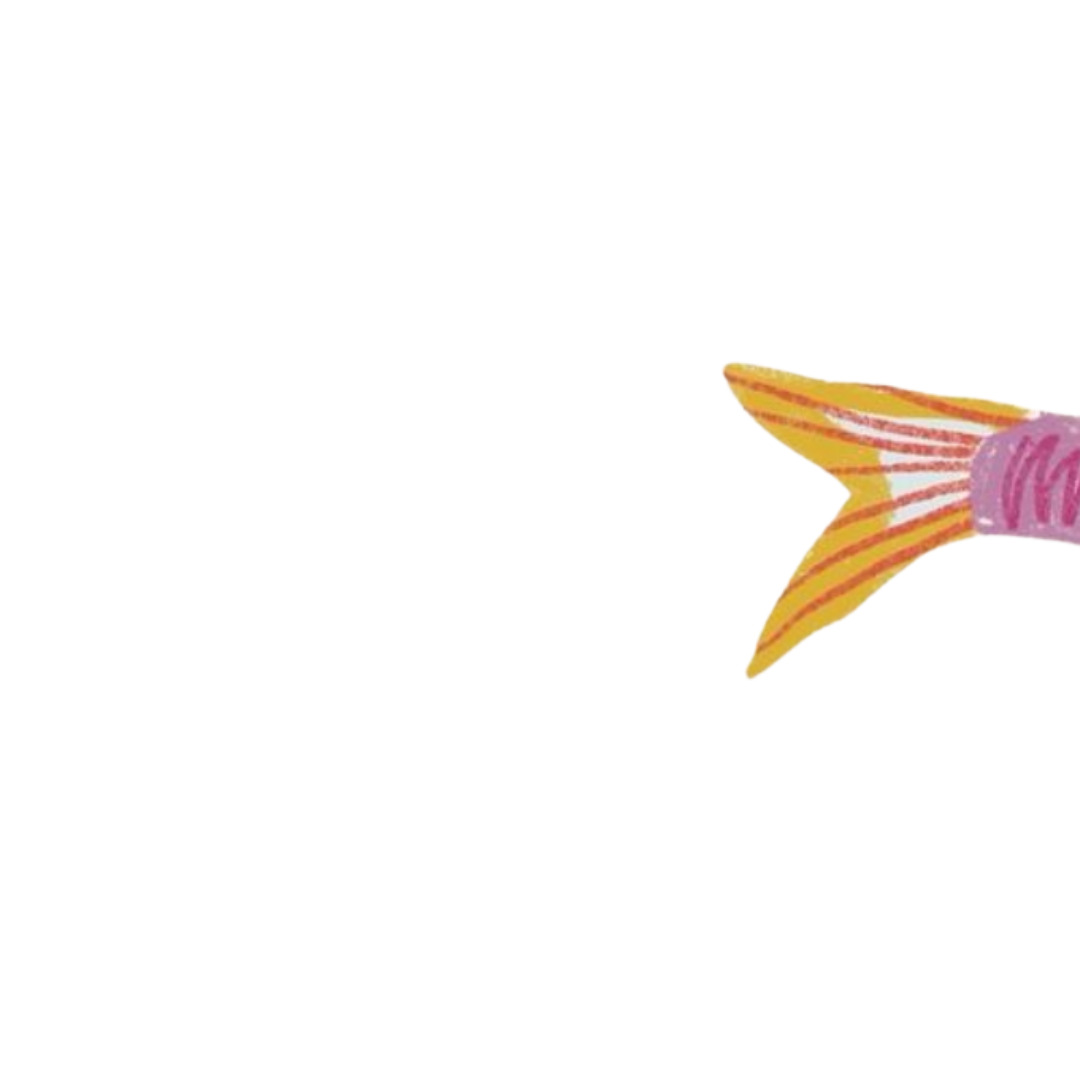
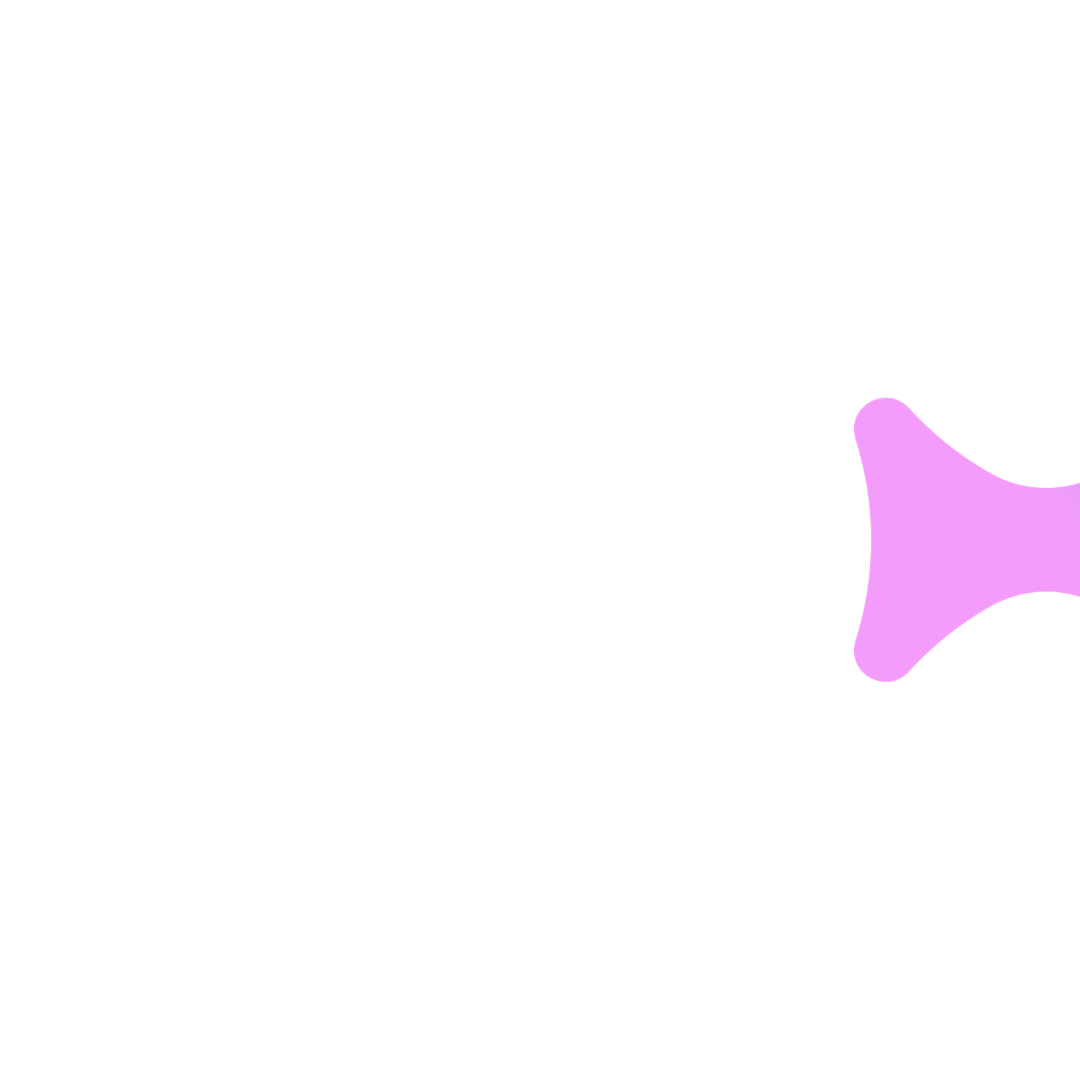
2nd commit

Changed region(s): [[0.6722, 0.3361, 1.0, 0.6417]]

diff --git a/sketch.js b/sketch.js
@@ -21,7 +21,6 @@ const LETTER_SETTINGS = {
 };
 
 const FISH_SETTINGS = {
-  count: 6,
   minSpeed: 0.6,
   maxSpeed: 1.4,
   wanderStrength: 0.02,
@@ -49,7 +48,29 @@ const FISH_RENDER = {
   // Tail animation
   tailAmplitude: 0.35, // radians
   tailSpeedBase: 0.16,
+
+  // Subtle body motion (relative to tail)
+  bodyBobAmount: 1.0, // pixels in local Y
+  bodyRotateAmount: 0.05, // radians
+  bodyScaleAmount: 0, // uniform scale delta
+  bodyMotionSpeed: 0.5, // multiplier on tailSpeed for body
+
+  // Extra tail speed when chasing (very subtle)
+  tailChaseSpeedMultiplier: 1.05,
 };
+
+// Per-variant fish configuration: fixed size (scale) and count.
+// One entry per body/tail pair (indices are 0-based into fishBodyImgs/fishTailImgs).
+// Adjust counts/scales here to control how many of each fish and how big.
+const FISH_VARIANT_PRESETS = [
+  { bodyIndex: 0, tailIndex: 0, count: 3, scale: 1.0 },
+  { bodyIndex: 1, tailIndex: 1, count: 2, scale: 1.0 },
+  { bodyIndex: 2, tailIndex: 2, count: 1, scale: 1.0 },
+  { bodyIndex: 3, tailIndex: 3, count: 1, scale: 1.0 },
+];
+
+// Resolved presets that actually have images loaded.
+let FISH_VARIANTS = [];
 
 // =========================
 // p5 lifecycle
@@ -57,14 +78,22 @@ const FISH_RENDER = {
 
 function preload() {
   // Add more body/tail image paths here to increase variation.
-  const bodyPaths = ["images/1.png", "images/3.png"];
-  const tailPaths = ["images/2.png", "images/4.png"];
+  const bodyPaths = ["images/1.png", "images/3.png", "images/5.png", "images/7.png"];
+  const tailPaths = ["images/2.png", "images/4.png", "images/6.png", "images/8.png"];
 
   const pairCount = Math.min(bodyPaths.length, tailPaths.length);
   for (let i = 0; i < pairCount; i++) {
     fishBodyImgs.push(loadImage(bodyPaths[i]));
     fishTailImgs.push(loadImage(tailPaths[i]));
   }
+
+  // Build actual variants list from presets, clamping to available images.
+  FISH_VARIANTS = FISH_VARIANT_PRESETS.filter((v) => {
+    return (
+      fishBodyImgs[v.bodyIndex] !== undefined &&
+      fishTailImgs[v.tailIndex] !== undefined
+    );
+  });
 }
 
 function setup() {
@@ -75,13 +104,17 @@ function setup() {
   noStroke();
   imageMode(CENTER);
 
-  for (let i = 0; i < FISH_SETTINGS.count; i++) {
-    fish.push(Fish.spawnOffscreen());
+  // Spawn a fixed number of fish per variant, with fixed size.
+  for (let vi = 0; vi < FISH_VARIANTS.length; vi++) {
+    const variant = FISH_VARIANTS[vi];
+    for (let n = 0; n < variant.count; n++) {
+      fish.push(Fish.spawnOffscreen(variant));
+    }
   }
 }
 
 function draw() {
-  background(0);
+  background(2, 0, 0); // soft off-white to match page
 
   // Update ripples
   for (let i = ripples.length - 1; i >= 0; i--) {
@@ -240,27 +273,29 @@ class Ripple {
 // =========================
 
 class Fish {
-  constructor(x, y, dir, speed, color, scale) {
+  constructor(x, y, dir, speed, color, variant) {
     this.x = x;
     this.y = y;
     this.dir = dir;
+    this.baseSpeed = speed;
     this.speed = speed;
     this.color = color;
-    this.scale = scale;
+    this.variant = variant;
+    this.scale = variant ? variant.scale : 1.0;
 
     this.bobPhase = random(TWO_PI);
     this.turnTarget = dir;
     this.timeOffset = random(1000);
+    this.hasTarget = false;
 
-    // Image references: choose a random body/tail pair from the loaded variants.
-    const imgIndex =
-      fishBodyImgs.length > 0
-        ? Math.floor(random(fishBodyImgs.length))
-        : -1;
-    this.bodyImg =
-      imgIndex >= 0 ? fishBodyImgs[imgIndex] : null;
-    this.tailImg =
-      imgIndex >= 0 ? fishTailImgs[imgIndex] : null;
+    // Image references: use the variant's body/tail indices.
+    if (this.variant) {
+      this.bodyImg = fishBodyImgs[this.variant.bodyIndex] || null;
+      this.tailImg = fishTailImgs[this.variant.tailIndex] || null;
+    } else {
+      this.bodyImg = fishBodyImgs[0] || null;
+      this.tailImg = fishTailImgs[0] || null;
+    }
 
     // Tail placement relative to body image size
     const bodyW = this.bodyImg ? this.bodyImg.width : 100;
@@ -272,9 +307,10 @@ class Fish {
     this.tailSpeed =
       FISH_RENDER.tailSpeedBase * random(0.8, 1.3);
     this.tailPhaseOffset = random(TWO_PI);
+    this.currentTailSpeed = this.tailSpeed;
   }
 
-  static spawnOffscreen() {
+  static spawnOffscreen(variant) {
     const side = Math.floor(random(4));
     let x;
     let y;
@@ -304,8 +340,7 @@ class Fish {
       random(0.85, 1.15);
     const color =
       FISH_COLORS[Math.floor(random(FISH_COLORS.length))];
-    const scale = random(0.8, 1.4);
-    return new Fish(x, y, dir, speed, color, scale);
+    return new Fish(x, y, dir, speed, color, variant);
   }
 
   update() {
@@ -313,7 +348,9 @@ class Fish {
 
     // Target nearby letters first
     const target = this.findNearestLetter();
-    if (target) {
+    const hasTarget = !!target;
+    this.hasTarget = hasTarget;
+    if (hasTarget) {
       const dx = target.x - this.x;
       const dy = target.y - this.y;
       const desired = Math.atan2(dy, dx);
@@ -331,6 +368,25 @@ class Fish {
       this.dir +
       this.angleDiff(this.turnTarget, this.dir) *
         FISH_SETTINGS.turnLerp;
+
+    // Gently speed up when pursuing a letter, and ease back otherwise.
+    const targetSpeedMultiplier = hasTarget ? 1.2 : 1.0;
+    const speedLerp = hasTarget ? 0.03 : 0.03;
+    this.speed =
+      this.speed +
+      (this.baseSpeed * targetSpeedMultiplier - this.speed) *
+        speedLerp;
+
+    // Linearly increase tail frequency when chasing.
+    const targetTailMult = hasTarget
+      ? FISH_RENDER.tailChaseSpeedMultiplier
+      : 1.0;
+    // Smaller lerp so tail frequency changes more gradually.
+    const tailLerp = hasTarget ? 0.03 : 0.03;
+    this.currentTailSpeed =
+      this.currentTailSpeed +
+      (this.tailSpeed * targetTailMult - this.currentTailSpeed) *
+        tailLerp;
 
     this.bobPhase +=
       FISH_SETTINGS.bobSpeed * 0.02 * (0.6 + 0.4 * this.scale);
@@ -352,7 +408,7 @@ class Fish {
       this.y < -m ||
       this.y > height + m
     ) {
-      const replacement = Fish.spawnOffscreen();
+      const replacement = Fish.spawnOffscreen(this.variant);
       this.x = replacement.x;
       this.y = replacement.y;
       this.dir = replacement.dir;
@@ -410,22 +466,36 @@ class Fish {
   draw() {
     if (!this.bodyImg || !this.tailImg) return;
 
-    const bodyScale = this.scale * FISH_RENDER.bodyScale;
+    const baseBodyScale = this.scale * FISH_RENDER.bodyScale;
+
+    // Use the same phase as the tail, but damped for subtle secondary motion.
+    const phase =
+      frameCount *
+        this.currentTailSpeed *
+        FISH_RENDER.bodyMotionSpeed +
+      this.tailPhaseOffset;
+    const s = sin(phase);
+
+    const bodyBob =
+      s * FISH_RENDER.bodyBobAmount * this.scale;
+    const bodyRot =
+      s * FISH_RENDER.bodyRotateAmount;
+    const bodyScalePulse =
+      1 + s * FISH_RENDER.bodyScaleAmount;
 
     push();
     translate(this.x, this.y);
     rotate(this.dir);
-    scale(bodyScale);
+    // Small local bob and gentle rotation/scale to keep the body feeling alive.
+    translate(0, bodyBob);
+    rotate(bodyRot);
+    scale(baseBodyScale * bodyScalePulse);
 
     // Draw body image centered at origin
     image(this.bodyImg, 0, 0);
 
     // Tail animation
-    const tailAngle =
-      sin(
-        frameCount * this.tailSpeed +
-          this.tailPhaseOffset
-      ) * this.tailAmplitude;
+    const tailAngle = s * this.tailAmplitude;
 
     // Tail is positioned at the back of the body and pivots from its base
     push();

diff --git a/index.html b/index.html
@@ -9,7 +9,7 @@
       body {
         margin: 0;
         padding: 0;
-        background: #000;
+        background: #ffffff; /* soft off-white */
         overflow: hidden;
       }
       canvas {
